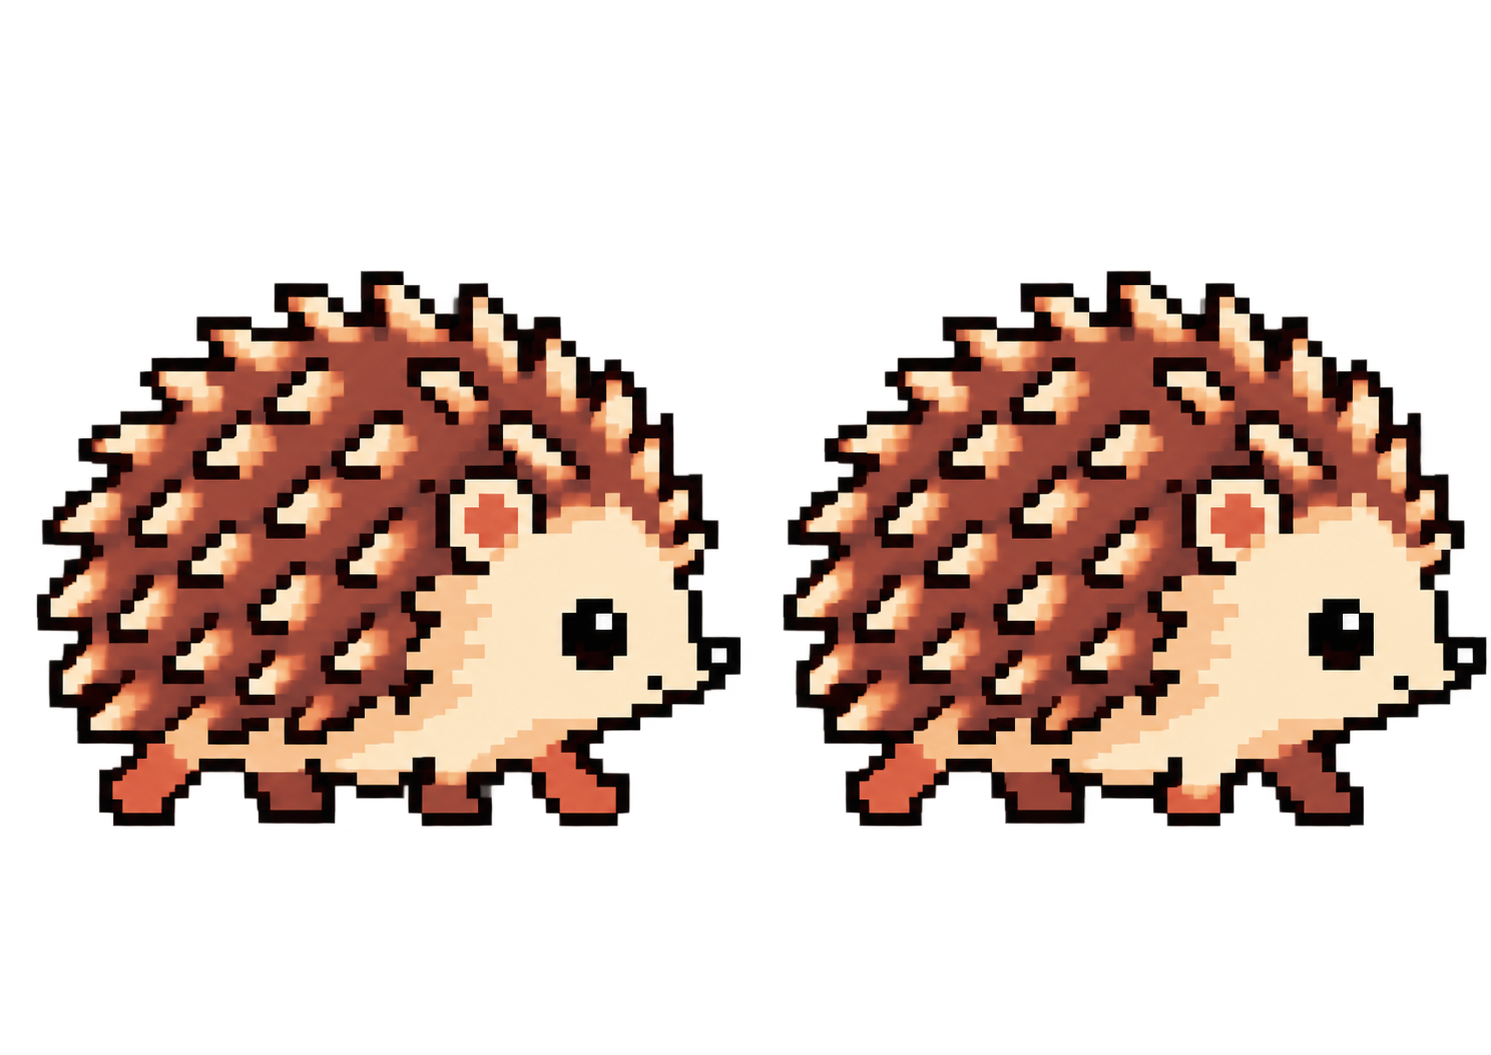
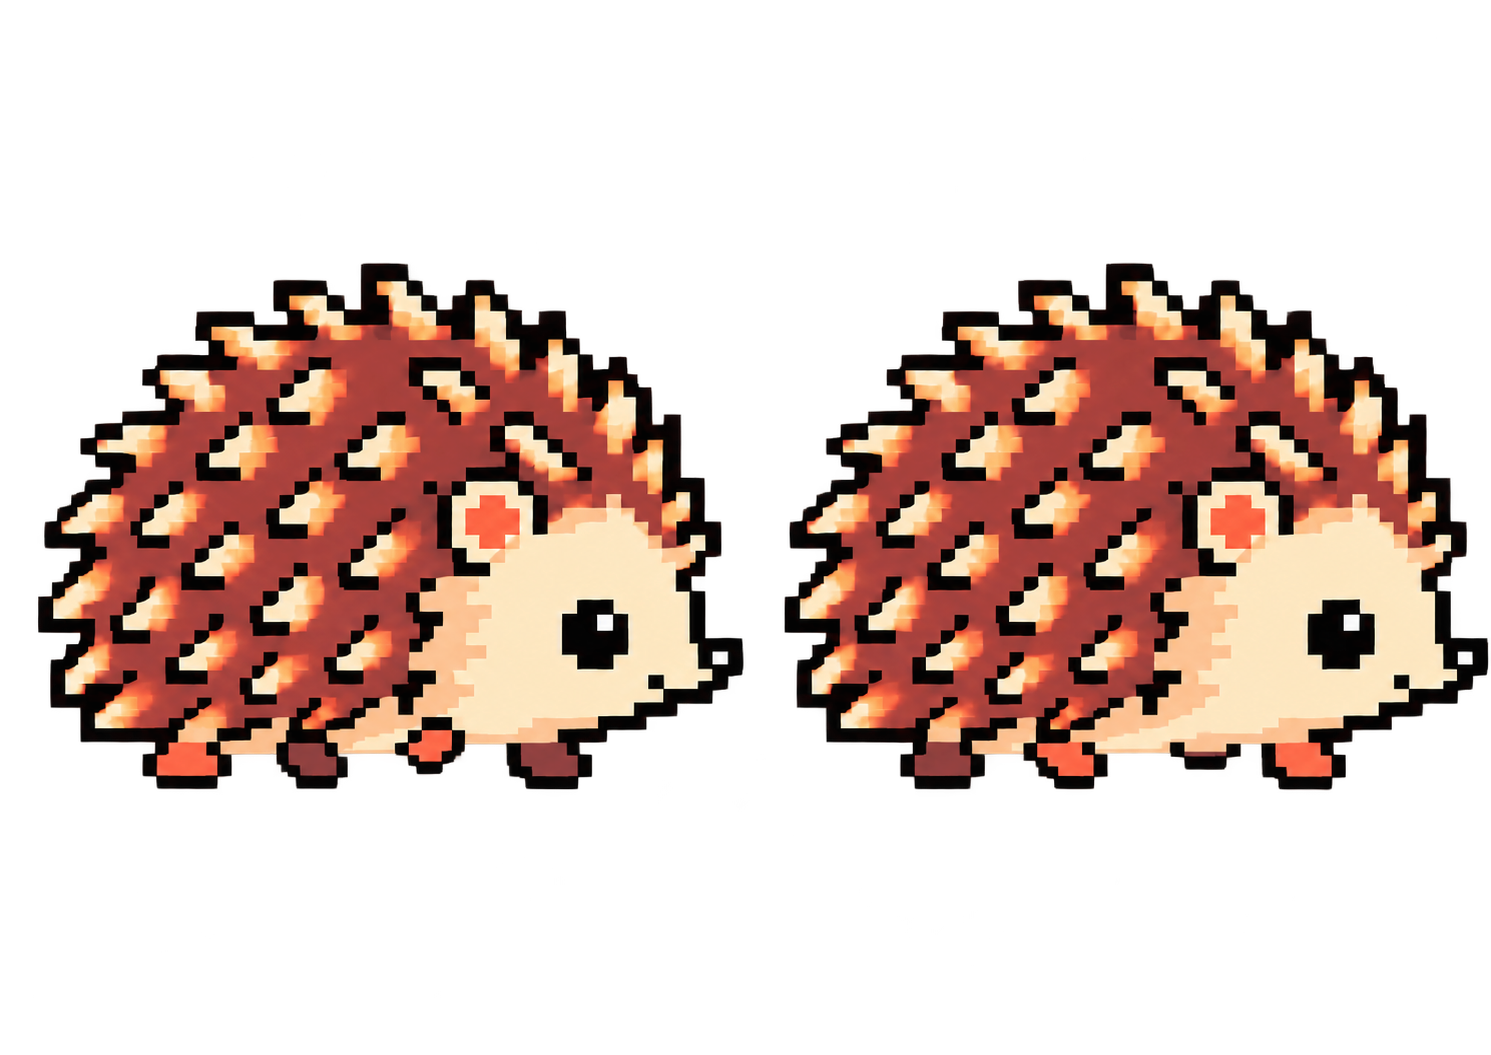
Refresh animated skins and remove obsolete designs

diff --git a/PixelHedgies.GeometryChecks/Program.cs b/PixelHedgies.GeometryChecks/Program.cs
@@ -28,16 +28,16 @@ Check(MeetingRules.CloseEnough(100, 200, 145, 204, 80, 56), "nearby pets can mee
 Check(!MeetingRules.CloseEnough(100, 200, 160, 204, 80, 56), "distant pets do not meet");
 Check(!MeetingRules.CloseEnough(100, 200, 145, 230, 80, 56), "pets on different heights do not meet");
 
-var availableSkins = new[] { "Hedgehog", "Poodle", "Labubu", "Stitch" };
+var availableSkins = new[] { "Hedgehog", "Poodle", "Rabbit", "Beaver" };
 Check(AnimalSkinSelection.Resolve("Poodle", availableSkins, 0) == "Poodle",
     "a selected skin is preserved");
 Check(AnimalSkinSelection.Resolve("Random", availableSkins, 0) == "Hedgehog",
     "random skin can select hedgehog");
 Check(AnimalSkinSelection.Resolve("Random", availableSkins, 1) == "Poodle",
     "random skin can select poodle");
-Check(AnimalSkinSelection.Resolve("Random", availableSkins, 2) == "Labubu",
-    "random skin can select Labubu");
-Check(AnimalSkinSelection.Resolve("Random", availableSkins, 3) == "Stitch",
+Check(AnimalSkinSelection.Resolve("Random", availableSkins, 2) == "Rabbit",
+    "random skin can select rabbit");
+Check(AnimalSkinSelection.Resolve("Random", availableSkins, 3) == "Beaver",
     "random skin can select a discovered character");
 Check(AnimalSkinSelection.SkinNameFromFile("Capybara-frame-0.png") == "Capybara",
     "first animation frame discovers one character");

diff --git a/PixelHedgies/Hedgehog.cs b/PixelHedgies/Hedgehog.cs
@@ -396,12 +396,14 @@ internal sealed class Hedgehog : Window
 
     private void PlaceFarFrontFoot(int frame)
     {
-        _farFrontFoot.Visibility = _skin.Equals(AnimalSkinSelection.Hedgehog, StringComparison.OrdinalIgnoreCase) && frame is 0 or 1 or 5
+        // The walk strip contains all four articulated legs. The extra far-side
+        // foot is only needed by the idle artwork.
+        _farFrontFoot.Visibility = _skin.Equals(AnimalSkinSelection.Hedgehog, StringComparison.OrdinalIgnoreCase) && frame == 5
             ? Visibility.Visible
             : Visibility.Hidden;
         var scale = _body.Width / WidthPx;
         _farFrontFoot.RenderTransform = new ScaleTransform(scale, scale);
-        Canvas.SetLeft(_farFrontFoot, (frame == 1 ? 38 : frame == 5 ? 35 : 32) * scale);
+        Canvas.SetLeft(_farFrontFoot, 35 * scale);
         Canvas.SetTop(_farFrontFoot, 36 * scale);
     }
 

diff --git a/README.md b/README.md
@@ -1,14 +1,25 @@
 # Pixel Hedgies
 
-| Hedgehog | Poodle | Capybara |
-| --- | --- | --- |
-| <img src="docs/hedgehog-preview-v5.gif" width="128" height="88" alt="Animated pixel hedgehog"> | <img src="docs/skin-previews/poodle-preview.gif" width="128" height="88" alt="Animated pixel poodle"> | <img src="docs/skin-previews/capybara-preview.gif" width="128" height="88" alt="Animated pixel capybara walking, blinking, looking forward, and rolling"> |
+| Hedgehog | Poodle | Capybara | Rabbit | Beaver |
+| --- | --- | --- | --- | --- |
+| <img src="docs/hedgehog-preview-v5.gif" width="128" height="88" alt="Animated pixel hedgehog"> | <img src="docs/skin-previews/poodle-preview.gif" width="128" height="88" alt="Animated pixel poodle walking"> | <img src="docs/skin-previews/capybara-preview.gif" width="128" height="88" alt="Animated pixel capybara walking"> | <img src="docs/skin-previews/rabbit-preview.gif" width="128" height="88" alt="Animated pixel rabbit hopping"> | <img src="docs/skin-previews/beaver-preview.gif" width="128" height="88" alt="Animated pixel beaver walking"> |
 
 A tiny Windows desktop pet. Hedgehogs render at 64 × 44 pixels, with
 crisp retro pixel scaling. They walk on the top edges of ordinary windows,
 including the Windows 11 taskbar, fall when they wander off, and land on another
 window or the monitor's bottom edge. When two meet, one scrambles onto the
 other's back, rides briefly, then hops away.
+
+## Included designs
+
+- **Hedgehog** is the built-in character. Its action artwork is embedded in the app.
+- **Poodle**, **Capybara**, **Rabbit**, and **Beaver** are file-based skins in
+  `PixelHedgies/Images`; builds and published packages copy them into the external
+  `Images` folder beside the executable.
+- Every included design has a corresponding animated GIF in the preview table
+  above. The GIF must be regenerated whenever that design's frames change.
+- Walking previews must show real changes in leg position, bend, lift, and foot
+  contact. A color swap without geometric leg movement is not a valid animation.
 
 ## Controls
 
@@ -65,14 +76,26 @@ The window-overlap geometry checks can be run with:
 dotnet run --project PixelHedgies.GeometryChecks/PixelHedgies.GeometryChecks.csproj
 ```
 
+To regenerate the transparent 64 × 44 packaged skin frames and their matching
+GIF previews after changing any non-hedgehog design, run:
+
+```powershell
+powershell -ExecutionPolicy Bypass -File docs/build-skin-previews.ps1
+```
+
+Hedgehog artwork uses its separate full-action preview pipeline:
+
+```powershell
+powershell -ExecutionPolicy Bypass -File docs/build-preview.ps1
+```
+
 To publish a self-contained Windows build:
 
 ```powershell
 dotnet publish PixelHedgies/PixelHedgies.csproj -c Release -r win-x64 --self-contained true -p:PublishSingleFile=true
 ```
 
-The current action sheet lives at `PixelHedgies/Assets/hedgehog-actions-v4.png`, and the two-frame walk strip at `PixelHedgies/Assets/hedgehog-walk-retro-v2.png`. The belly is never clipped; a dark far-side front paw is drawn behind the sprite to keep both front feet visible at 64 × 44 pixels.
-The original sprite remains at `PixelHedgies/Assets/hedgehog.png`. The app intentionally
-does not install itself at startup or require administrator privileges. The
+The current action sheet lives at `PixelHedgies/Assets/hedgehog-actions-v4.png`, and the two-frame walk strip at `PixelHedgies/Assets/hedgehog-walk-retro-v2.png`. Packaged non-hedgehog skins live in `PixelHedgies/Images` and are copied beside the app at build and publish time rather than being embedded as hard-coded resources.
+The app intentionally does not install itself at startup or require administrator privileges. The
 hedgehogs are always on top of ordinary windows; fullscreen games and some
 protected/system windows are outside the scope of this version.

diff --git a/AGENTS.md b/AGENTS.md
@@ -1,0 +1,15 @@
+# Project Instructions
+
+## Character animation
+
+- Walking legs must move through natural poses with visible changes in limb position, bend, lift, foot placement, and weight transfer.
+- Never represent leg movement by swapping limb colors while leaving the geometry in the same or nearly the same position.
+- Judge animation at the final in-app sprite size and verify it with a rendered GIF before considering the artwork complete.
+- Keep limb proportions appropriate to the animal; readable motion must not come from unnaturally lengthening the legs.
+
+## Design documentation
+
+- Keep `README.md` synchronized with the currently included character designs.
+- Every included design must have a corresponding animated GIF linked from the README preview table.
+- Regenerate and review the matching GIF whenever character artwork or animation frames change.
+- Remove obsolete design previews and documentation when a character is removed.
